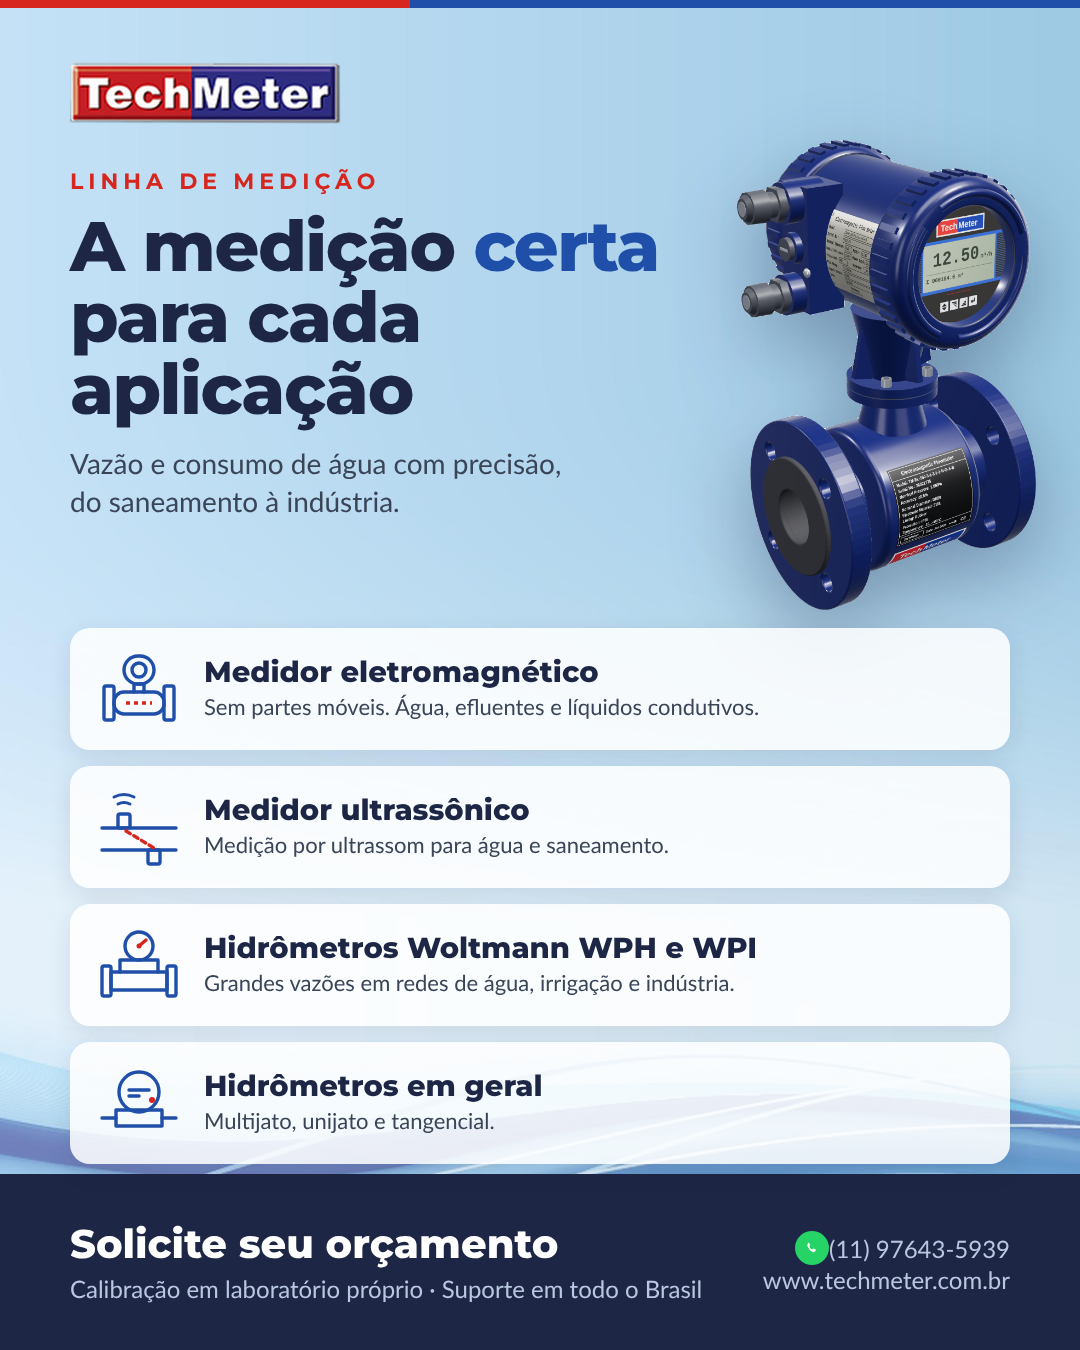
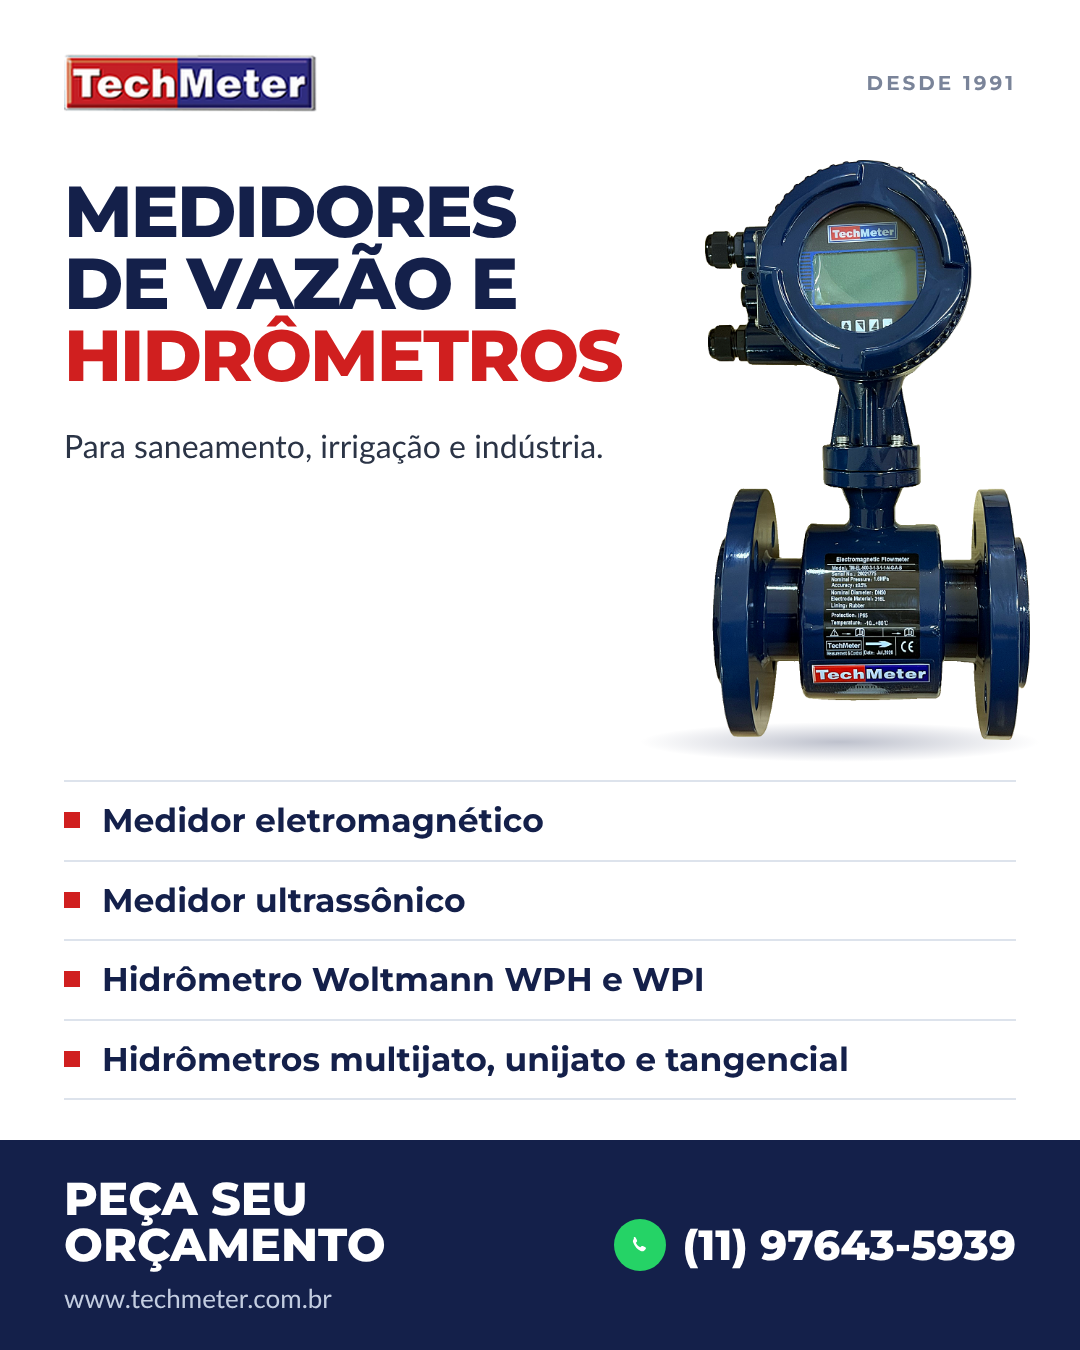
feat: campanha linha de medição em estilo comercial com foto real
Claude-Session: https://claude.ai/code/session_015fvcEttop1tcYYHrFaHLL4

diff --git a/campanhas/2026-11-linha-medicao/folheto.html b/campanhas/2026-11-linha-medicao/folheto.html
@@ -4,98 +4,70 @@
 @font-face{font-family:Lato;font-weight:400;src:url(../../modelos/manual-tecnico/assets/fontes/Lato-Regular.ttf)}
 @font-face{font-family:Lato;font-weight:700;src:url(../../modelos/manual-tecnico/assets/fontes/Lato-Bold.ttf)}
 @font-face{font-family:Montserrat;font-weight:100 900;src:url("../../modelos/manual-tecnico/assets/fontes/Montserrat[wght].ttf")}
-:root{--navy:#1d2645;--azul:#1f4fa8;--azul2:#2d6fd0;--verm:#d7261e;--txt:#3a4558}
-*{box-sizing:border-box;margin:0}
-body{background:#888}
-.arte{position:relative;overflow:hidden;background:#b5d8ef url(assets/capa-fundo.jpg) center/cover no-repeat;font-family:Lato,sans-serif;color:var(--navy)}
-.feed{width:1080px;height:1350px}
-.story{width:1080px;height:1920px}
-.logo{height:62px}
-.eyebrow{font:700 22px Montserrat;letter-spacing:5px;color:var(--verm);text-transform:uppercase}
-h1{font:800 78px/1.02 Montserrat;letter-spacing:-1.5px;color:var(--navy)}
-h1 em{font-style:normal;color:var(--azul)}
-.sub{font:400 30px/1.35 Lato;color:var(--txt)}
-.itens{display:flex;flex-direction:column;gap:18px}
-.item{position:relative;z-index:2;display:flex;gap:22px;align-items:center;background:rgba(255,255,255,.86);border-radius:20px;padding:18px 26px;box-shadow:0 8px 24px rgba(29,38,69,.10)}
-.item svg{flex:none;width:86px;height:86px}
-.item b{display:block;font:800 29px/1.1 Montserrat;color:var(--navy)}
-.item span{display:block;font:400 22px/1.3 Lato;color:var(--txt);margin-top:5px}
-.hero{position:absolute;filter:drop-shadow(0 30px 40px rgba(20,35,70,.35))}
-.selos{display:flex;gap:14px;flex-wrap:wrap}
-.selo{font:700 21px Lato;color:var(--navy);background:#fff;border:2px solid #c6d6ea;border-radius:999px;padding:10px 20px}
-.cta{position:absolute;left:0;right:0;bottom:0;background:var(--navy);color:#fff;display:flex;align-items:center;justify-content:space-between;gap:30px}
-.cta .t{font:800 40px/1.1 Montserrat}
-.cta .t small{display:block;font:400 24px Lato;color:#b9c7e0;margin-top:8px}
-.cta .contato{text-align:right;font:700 30px Lato;line-height:1.5}
-.cta .contato span{display:block;font:400 24px Lato;color:#b9c7e0}
-.zap{display:inline-flex;align-items:center;gap:12px}
-.zap i{width:34px;height:34px;border-radius:50%;background:#25d366;display:inline-grid;place-items:center}
-.faixa{position:absolute;left:0;right:0;height:8px;background:linear-gradient(90deg,var(--verm) 0 38%,var(--azul) 38% 100%)}
+:root{--navy:#14204a;--azul:#1b46a0;--verm:#d01f1f;--txt:#2b3446;--cinza:#eef1f5}
+*{box-sizing:border-box;margin:0;padding:0}
+body{background:#999}
+.arte{position:relative;overflow:hidden;background:#fff;font-family:Lato,sans-serif;color:var(--navy)}
+.feed{width:1080px;height:1350px}.story{width:1080px;height:1920px}
+.topo{display:flex;justify-content:space-between;align-items:center}
+.topo img{height:58px}
+.topo span{font:700 20px Montserrat;letter-spacing:3px;color:#7a8499}
+h1{font:800 82px/1 Montserrat;letter-spacing:-2px;text-transform:uppercase;color:var(--navy)}
+h1 span{color:var(--verm)}
+.sub{font:400 32px/1.3 Lato;color:var(--txt)}
+.lista{list-style:none}
+.lista li{font:700 33px/1.2 Montserrat;color:var(--navy);padding:19px 0;border-bottom:2px solid #dde3ec;display:flex;gap:22px;align-items:baseline}
+.lista li:first-child{border-top:2px solid #dde3ec}
+.lista li::before{content:"";flex:none;width:16px;height:16px;background:var(--verm);transform:translateY(-4px)}
+.lista li small{display:block;font:400 24px Lato;color:#5b6577;margin-top:6px}
+.foto{position:absolute}
+.piso{position:absolute;height:40px;border-radius:50%;background:radial-gradient(closest-side,rgba(20,32,74,.28),rgba(20,32,74,0))}
+.barra{position:absolute;left:0;right:0;background:var(--cinza);display:flex;justify-content:center;gap:46px;font:700 24px Lato;color:var(--navy)}
+.barra b{color:var(--verm)}
+.rodape{position:absolute;left:0;right:0;bottom:0;background:var(--navy);color:#fff}
+.rodape .chamada{font:800 46px/1 Montserrat;text-transform:uppercase}
+.rodape .zap{white-space:nowrap;font:800 54px/1 Montserrat;color:#fff;display:flex;align-items:center;gap:16px}
+.rodape .zap i{width:52px;height:52px;border-radius:50%;background:#25d366;display:grid;place-items:center}
+.rodape .site{font:400 26px Lato;color:#c3cde0}
+.corte{position:absolute;top:0;bottom:0;width:14px;background:var(--verm)}
 </style></head><body>
 
-<!-- ícones de linha -->
-<svg width="0" height="0" style="position:absolute">
- <defs>
-  <symbol id="i-em" viewBox="0 0 86 86"><g fill="none" stroke="#1f4fa8" stroke-width="3.4" stroke-linejoin="round" stroke-linecap="round">
-   <rect x="8" y="40" width="10" height="34" rx="2"/><rect x="68" y="40" width="10" height="34" rx="2"/><rect x="18" y="46" width="50" height="22" rx="10"/>
-   <path d="M38 46v-8h10v8"/><rect x="28" y="10" width="30" height="28" rx="14"/><circle cx="43" cy="24" r="7"/></g>
-   <path d="M30 57h26" stroke="#d7261e" stroke-width="3.4" stroke-dasharray="4 4"/></symbol>
-  <symbol id="i-us" viewBox="0 0 86 86"><g fill="none" stroke="#1f4fa8" stroke-width="3.4" stroke-linecap="round" stroke-linejoin="round">
-   <path d="M6 44h74M6 66h74"/><rect x="22" y="30" width="12" height="14" rx="2"/><rect x="52" y="66" width="12" height="14" rx="2"/></g>
-   <path d="M30 47l28 17" stroke="#d7261e" stroke-width="3.4" stroke-linecap="round" stroke-dasharray="5 4"/>
-   <g fill="none" stroke="#1f4fa8" stroke-width="3" stroke-linecap="round"><path d="M22 20a14 14 0 0 1 12 0M18 13a22 22 0 0 1 20 0"/></g></symbol>
-  <symbol id="i-wo" viewBox="0 0 86 86"><g fill="none" stroke="#1f4fa8" stroke-width="3.4" stroke-linejoin="round" stroke-linecap="round">
-   <rect x="6" y="44" width="9" height="30" rx="2"/><rect x="71" y="44" width="9" height="30" rx="2"/><path d="M15 50h56v18H15z"/>
-   <path d="M24 50V38h38v12"/><circle cx="43" cy="24" r="14"/></g>
-   <path d="M43 24l7-6" stroke="#d7261e" stroke-width="3.4" stroke-linecap="round"/><circle cx="43" cy="24" r="2.5" fill="#d7261e"/></symbol>
-  <symbol id="i-hd" viewBox="0 0 86 86"><g fill="none" stroke="#1f4fa8" stroke-width="3.4" stroke-linejoin="round" stroke-linecap="round">
-   <path d="M6 58h14M66 58h14"/><path d="M20 50h46v16H20z"/><circle cx="43" cy="32" r="20"/><path d="M33 30h20"/><path d="M33 36h10"/></g>
-   <circle cx="56" cy="40" r="3" fill="#d7261e"/></symbol>
- </defs>
-</svg>
-
-<!-- POST DO FEED 1080x1350 -->
 <section class="arte feed" id="feed">
- <div class="faixa" style="top:0"></div>
- <img class="logo" src="assets/logo-techmeter.png" style="position:absolute;left:70px;top:62px" alt="TechMeter">
- <div style="position:absolute;left:70px;top:168px;width:640px">
-  <div class="eyebrow">Linha de medição</div>
-  <h1 style="margin-top:16px;font-size:70px">A medição <em>certa</em><br>para cada<br>aplicação</h1>
-  <p class="sub" style="margin-top:20px;width:520px;font-size:28px">Vazão e consumo de água com precisão, do saneamento à indústria.</p>
- </div>
- <img class="hero" src="assets/eletromagnetico.png" style="right:44px;top:140px;height:470px" alt="">
- <div class="itens" style="position:absolute;left:70px;right:70px;top:628px;gap:16px">
-  <div class="item"><svg><use href="#i-em"/></svg><div><b>Medidor eletromagnético</b><span>Sem partes móveis. Água, efluentes e líquidos condutivos.</span></div></div>
-  <div class="item"><svg><use href="#i-us"/></svg><div><b>Medidor ultrassônico</b><span>Medição por ultrassom para água e saneamento.</span></div></div>
-  <div class="item"><svg><use href="#i-wo"/></svg><div><b>Hidrômetros Woltmann WPH e WPI</b><span>Grandes vazões em redes de água, irrigação e indústria.</span></div></div>
-  <div class="item"><svg><use href="#i-hd"/></svg><div><b>Hidrômetros em geral</b><span>Multijato, unijato e tangencial.</span></div></div>
- </div>
- <div class="cta" style="height:176px;padding:0 70px">
-  <div class="t">Solicite seu orçamento<small>Calibração em laboratório próprio · Suporte em todo o Brasil</small></div>
-  <div class="contato"><span class="zap"><i><svg width="20" height="20" viewBox="0 0 24 24"><path fill="#fff" d="M7 6c.5-.5 1.2-.5 1.6.1l1 2c.2.5.1 1-.3 1.4l-.6.6c.7 1.6 2 2.9 3.6 3.6l.6-.6c.4-.4.9-.5 1.4-.3l2 1c.6.4.6 1.1.1 1.6l-.9.9c-.8.8-1.9 1-2.9.5A12 12 0 0 1 6.6 10c-.5-1-.3-2.1.5-2.9z"/></svg></i>(11) 97643-5939</span><span>www.techmeter.com.br</span></div>
+ <div class="topo" style="position:absolute;left:64px;right:64px;top:54px"><img src="assets/logo-techmeter.png" alt="TechMeter"><span>DESDE 1991</span></div>
+ <h1 style="position:absolute;left:64px;top:175px;width:620px;font-size:72px">Medidores<br>de vazão e<br><span>hidrômetros</span></h1>
+ <p class="sub" style="position:absolute;left:64px;top:425px;width:560px">Para saneamento, irrigação e indústria.</p>
+ <div class="piso" style="right:40px;width:400px;top:722px"></div>
+ <img class="foto" src="assets/eletromagnetico-foto.png" style="right:50px;top:160px;height:580px" alt="Medidor de vazão eletromagnético Techmeter">
+ <ul class="lista" style="position:absolute;left:64px;right:64px;top:780px">
+  <li>Medidor eletromagnético</li>
+  <li>Medidor ultrassônico</li>
+  <li>Hidrômetro Woltmann WPH e WPI</li>
+  <li>Hidrômetros multijato, unijato e tangencial</li>
+ </ul>
+ <div class="rodape" style="height:210px;padding:0 64px;display:flex;align-items:center;justify-content:space-between">
+  <div><div class="chamada">Peça seu orçamento</div><div class="site" style="margin-top:14px">www.techmeter.com.br</div></div>
+  <div class="zap"><i><svg width="30" height="30" viewBox="0 0 24 24"><path fill="#fff" d="M7 6c.5-.5 1.2-.5 1.6.1l1 2c.2.5.1 1-.3 1.4l-.6.6c.7 1.6 2 2.9 3.6 3.6l.6-.6c.4-.4.9-.5 1.4-.3l2 1c.6.4.6 1.1.1 1.6l-.9.9c-.8.8-1.9 1-2.9.5A12 12 0 0 1 6.6 10c-.5-1-.3-2.1.5-2.9z"/></svg></i><span style="font-size:42px">(11) 97643-5939</span></div>
  </div>
 </section>
 
 <div style="height:40px"></div>
 
-<!-- STORIES 1080x1920 -->
 <section class="arte story" id="story">
- <div class="faixa" style="top:0"></div>
- <img class="logo" src="assets/logo-techmeter.png" style="position:absolute;left:50%;transform:translateX(-50%);top:150px;height:72px" alt="TechMeter">
- <div style="position:absolute;left:80px;right:80px;top:280px;text-align:center">
-  <div class="eyebrow">Linha de medição</div>
-  <h1 style="margin-top:18px;font-size:84px">A medição <em>certa</em><br>para cada aplicação</h1>
- </div>
- <img class="hero" src="assets/eletromagnetico.png" style="left:50%;transform:translateX(-50%);top:560px;height:560px" alt="">
- <div style="position:absolute;left:70px;right:70px;top:1150px;display:grid;grid-template-columns:1fr 1fr;gap:18px">
-  <div class="item" style="flex-direction:column;align-items:flex-start;gap:12px"><svg style="width:70px;height:70px"><use href="#i-em"/></svg><div><b>Eletromagnético</b><span>Sem partes móveis, para líquidos condutivos.</span></div></div>
-  <div class="item" style="flex-direction:column;align-items:flex-start;gap:12px"><svg style="width:70px;height:70px"><use href="#i-us"/></svg><div><b>Ultrassônico</b><span>Medição por ultrassom para água e saneamento.</span></div></div>
-  <div class="item" style="flex-direction:column;align-items:flex-start;gap:12px"><svg style="width:70px;height:70px"><use href="#i-wo"/></svg><div><b>Woltmann WPH e WPI</b><span>Grandes vazões em redes e irrigação.</span></div></div>
-  <div class="item" style="flex-direction:column;align-items:flex-start;gap:12px"><svg style="width:70px;height:70px"><use href="#i-hd"/></svg><div><b>Hidrômetros</b><span>Multijato, unijato e tangencial.</span></div></div>
- </div>
- <div class="cta" style="height:290px;padding:0 80px 60px;flex-direction:column;justify-content:center;text-align:center;gap:18px">
-  <div class="t" style="font-size:46px">Solicite seu orçamento<small>Calibração em laboratório próprio · Suporte em todo o Brasil</small></div>
-  <div class="contato" style="text-align:center"><span class="zap" style="justify-content:center"><i><svg width="20" height="20" viewBox="0 0 24 24"><path fill="#fff" d="M7 6c.5-.5 1.2-.5 1.6.1l1 2c.2.5.1 1-.3 1.4l-.6.6c.7 1.6 2 2.9 3.6 3.6l.6-.6c.4-.4.9-.5 1.4-.3l2 1c.6.4.6 1.1.1 1.6l-.9.9c-.8.8-1.9 1-2.9.5A12 12 0 0 1 6.6 10c-.5-1-.3-2.1.5-2.9z"/></svg></i>(11) 97643-5939</span><span style="display:inline">www.techmeter.com.br</span></div>
+ <div class="topo" style="position:absolute;left:70px;right:70px;top:150px"><img src="assets/logo-techmeter.png" alt="TechMeter" style="height:66px"><span>DESDE 1991</span></div>
+ <h1 style="position:absolute;left:70px;top:290px;font-size:96px">Medidores<br>de vazão e<br><span>hidrômetros</span></h1>
+ <p class="sub" style="position:absolute;left:70px;top:610px;font-size:36px">Para saneamento, irrigação e indústria.</p>
+ <div class="piso" style="left:50%;transform:translateX(-50%);width:520px;top:1185px"></div>
+ <img class="foto" src="assets/eletromagnetico-foto.png" style="left:50%;transform:translateX(-50%);top:700px;height:500px" alt="Medidor de vazão eletromagnético Techmeter">
+ <ul class="lista" style="position:absolute;left:70px;right:70px;top:1250px">
+  <li>Medidor eletromagnético</li>
+  <li>Medidor ultrassônico</li>
+  <li>Hidrômetro Woltmann WPH e WPI</li>
+  <li>Hidrômetros multijato, unijato e tangencial</li>
+ </ul>
+ <div class="rodape" style="height:300px;padding:40px 70px 70px;display:flex;flex-direction:column;justify-content:center;gap:22px">
+  <div class="chamada">Peça seu orçamento</div>
+  <div class="zap"><i><svg width="30" height="30" viewBox="0 0 24 24"><path fill="#fff" d="M7 6c.5-.5 1.2-.5 1.6.1l1 2c.2.5.1 1-.3 1.4l-.6.6c.7 1.6 2 2.9 3.6 3.6l.6-.6c.4-.4.9-.5 1.4-.3l2 1c.6.4.6 1.1.1 1.6l-.9.9c-.8.8-1.9 1-2.9.5A12 12 0 0 1 6.6 10c-.5-1-.3-2.1.5-2.9z"/></svg></i>(11) 97643-5939</div>
+  <div class="site">Calibração em laboratório próprio · www.techmeter.com.br</div>
  </div>
 </section>
 </body></html>

diff --git a/campanhas/2026-11-linha-medicao/README.md b/campanhas/2026-11-linha-medicao/README.md
@@ -8,6 +8,6 @@ Peças para redes sociais com eletromagnético, ultrassônico, Woltmann WPH/WPI 
 | `linha-medicao-story.png` | Stories e status do WhatsApp, 1080 × 1920 |
 | `folheto.html` | Fonte editável das duas peças (abrir no Chrome) |
 
-- A foto do eletromagnético é a renderização do modelo 3D (`modelos-3d/`), não uma foto real.
-- Ultrassônico, Woltmann e hidrômetros usam ícones desenhados, porque ainda não há fotos desses produtos.
+- Versão 2 (estilo comercial, fundo branco): foto real do medidor eletromagnético, recortada.
+- Ultrassônico, Woltmann e hidrômetros aparecem só na lista, porque ainda não há fotos desses produtos.
 - Para gerar as imagens de novo: script `folheto.js` (Playwright) usado na sessão; ou abrir o HTML e capturar cada bloco.
